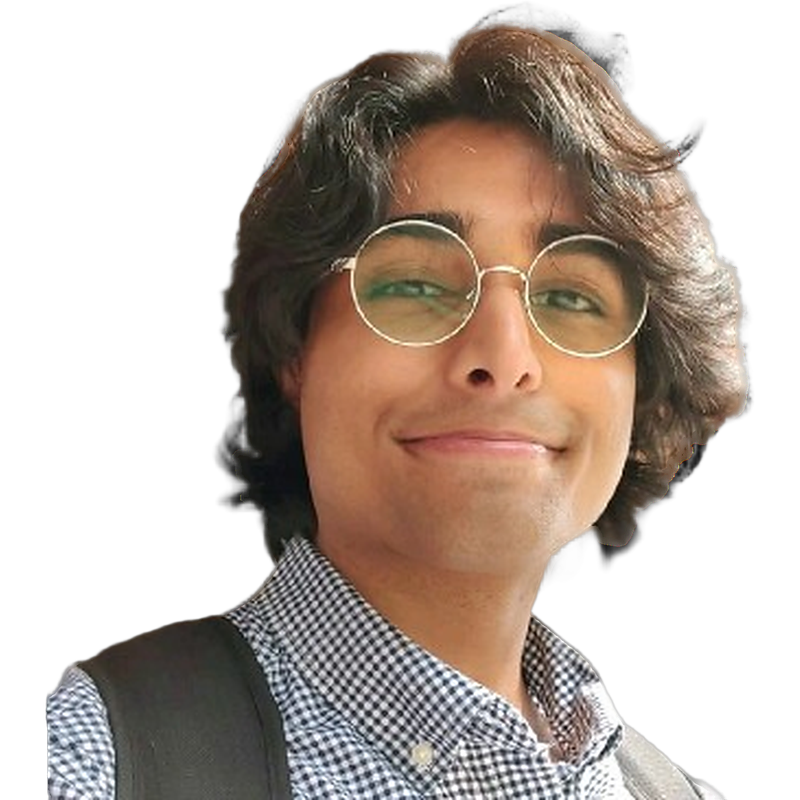
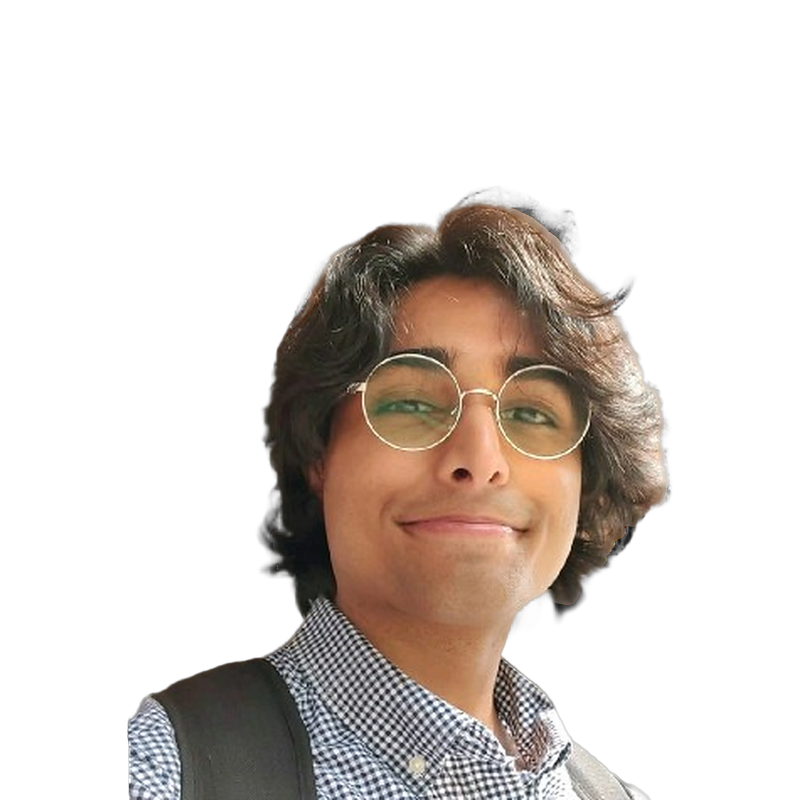
Enlarge the portrait fade, lift it, and drive motion from the pointer
- Replace the scroll-linked parallax with useHoverMotion: hovering eases the
  portrait up, scales it slightly, and leans it toward the cursor. Reuses the
  same interpolate-toward-target easing, so it still reads as having weight.
  Skipped under prefers-reduced-motion and on devices with no real pointer.
  Delete useParallax.ts, now unused.
- Raise the portrait clear of the section divider so the faded edges have room
  instead of being cut off by the section boundary.
- Enlarge the circular fade. The previous mask used 'circle closest-side',
  which sizes against the nearest edge and left the fully-visible disc at only
  ~184px inside a 400px element — hence a small circle floating in space. Now
  sized as an explicit ellipse in element-relative terms, opaque out to 72% and
  fading to zero exactly at the horizontal edges, so no rectangle shows.
- Add 30% breathing room to the portrait canvas in make-portrait.py. The source
  is cropped so tightly that the hair meets the image edge, leaving any circular
  mask no choice but to chew into it; the empty margin is what the fade
  dissolves into.

diff --git a/src/hooks/useHoverMotion.ts b/src/hooks/useHoverMotion.ts
@@ -1,0 +1,123 @@
+import { useEffect, useRef } from 'react'
+
+type HoverMotionOptions = {
+  /** Extra scale at full engagement. `0.05` = 5% larger. */
+  scale?: number
+  /** How far the element rises at full engagement, in px. */
+  lift?: number
+  /** Maximum pointer-follow offset, in px. */
+  follow?: number
+  /** Lag factor between 0 and 1. Lower is smoother and floatier. */
+  smoothing?: number
+}
+
+const clamp = (v: number, min: number, max: number) => Math.min(Math.max(v, min), max)
+
+/**
+ * Pointer-driven motion for the hero portrait, in place of scroll parallax.
+ *
+ * On hover the element eases up and scales slightly, and it leans a few pixels
+ * toward the cursor so it feels like it is responding rather than just glowing.
+ * Like the scroll version, motion is interpolated toward a target instead of
+ * snapping to it — the lag is what reads as weight. The loop parks itself once
+ * everything settles, so an idle page costs nothing.
+ *
+ * Skipped entirely under `prefers-reduced-motion`, and on devices without a
+ * real pointer (`hover: none`), where there is no hover to respond to.
+ */
+export function useHoverMotion<T extends HTMLElement>({
+  scale = 0.05,
+  lift = 16,
+  follow = 10,
+  smoothing = 0.1,
+}: HoverMotionOptions = {}) {
+  const ref = useRef<T>(null)
+
+  useEffect(() => {
+    const element = ref.current
+    if (!element) return
+
+    if (window.matchMedia('(prefers-reduced-motion: reduce)').matches) return
+    if (!window.matchMedia('(hover: hover)').matches) return
+
+    let engaged = 0
+    let targetEngaged = 0
+    let pointerX = 0 // -1 (left) .. 1 (right)
+    let pointerY = 0 // -1 (top) .. 1 (bottom)
+    let easedX = 0
+    let easedY = 0
+    let frame = 0
+
+    const draw = () => {
+      const scaleValue = 1 + scale * engaged
+      const x = easedX * follow
+      const y = -lift * engaged + easedY * follow
+      element.style.transform = `translate3d(${x.toFixed(2)}px, ${y.toFixed(2)}px, 0) scale(${scaleValue.toFixed(4)})`
+    }
+
+    const tick = () => {
+      engaged += (targetEngaged - engaged) * smoothing
+      easedX += (pointerX - easedX) * smoothing
+      easedY += (pointerY - easedY) * smoothing
+
+      const settled =
+        Math.abs(targetEngaged - engaged) < 0.0005 &&
+        Math.abs(pointerX - easedX) < 0.001 &&
+        Math.abs(pointerY - easedY) < 0.001
+
+      if (settled) {
+        engaged = targetEngaged
+        easedX = pointerX
+        easedY = pointerY
+        draw()
+        frame = 0
+        return
+      }
+
+      draw()
+      frame = requestAnimationFrame(tick)
+    }
+
+    const kick = () => {
+      if (!frame) frame = requestAnimationFrame(tick)
+    }
+
+    const onEnter = () => {
+      targetEngaged = 1
+      kick()
+    }
+
+    const onLeave = () => {
+      targetEngaged = 0
+      pointerX = 0
+      pointerY = 0
+      kick()
+    }
+
+    const onMove = (event: PointerEvent) => {
+      if (!targetEngaged) return
+      const rect = element.getBoundingClientRect()
+      if (!rect.width || !rect.height) return
+      pointerX = clamp(((event.clientX - rect.left) / rect.width) * 2 - 1, -1, 1)
+      pointerY = clamp(((event.clientY - rect.top) / rect.height) * 2 - 1, -1, 1)
+      kick()
+    }
+
+    element.style.willChange = 'transform'
+    draw()
+    element.addEventListener('pointerenter', onEnter)
+    element.addEventListener('pointerleave', onLeave)
+    element.addEventListener('pointermove', onMove)
+
+    return () => {
+      element.removeEventListener('pointerenter', onEnter)
+      element.removeEventListener('pointerleave', onLeave)
+      element.removeEventListener('pointermove', onMove)
+      if (frame) cancelAnimationFrame(frame)
+      element.style.removeProperty('will-change')
+      element.style.removeProperty('transform')
+    }
+  }, [scale, lift, follow, smoothing])
+
+  return ref
+}

diff --git a/src/components/Portrait.tsx b/src/components/Portrait.tsx
@@ -1,6 +1,6 @@
 import { useState } from 'react'
 import { profile } from '../data/resume'
-import { useParallax } from '../hooks/useParallax'
+import { useHoverMotion } from '../hooks/useHoverMotion'
 
 /** "Ryan Vyas" -> "RV" */
 function initialsOf(name: string) {
@@ -13,26 +13,30 @@ function initialsOf(name: string) {
 }
 
 /**
- * The hero portrait: a cut-out (transparent background) image that drifts and
- * scales as you scroll, sitting on a soft glow so it separates from the page.
+ * The hero portrait: a cut-out image whose edges dissolve into the page via a
+ * feathered circular mask. On hover it eases up, scales slightly, and leans
+ * toward the cursor.
  *
- * Sized to stay near the source's native resolution — the supplied photo is
- * only ~370px square, so pushing it much larger than this goes soft. Replace
- * `public/portrait.png` (and `portrait.webp`) with a higher-resolution cut-out
- * to scale the treatment up.
+ * The nesting order matters. The transform is outermost, then the shadow
+ * filter, then the mask on the image itself:
  *
- * Falls back to a monogram if the image is missing, so the layout never shows
- * a broken image.
+ * - Mask inside the filter means the shadow follows the *faded* silhouette
+ *   instead of being clipped off by the mask.
+ * - Transform outermost means the filtered, masked subtree is rasterised once
+ *   into a layer and the motion just moves that layer, keeping it cheap.
+ *
+ * Falls back to a monogram if the image is missing, so the layout never shows a
+ * broken image.
  */
 export function Portrait() {
   const [hasFailed, setHasFailed] = useState(false)
-  const parallaxRef = useParallax<HTMLDivElement>()
+  const motionRef = useHoverMotion<HTMLDivElement>()
   const showImage = Boolean(profile.photoUrl) && !hasFailed
 
   if (!showImage) {
     return (
       <div className="flex justify-center pb-10">
-        <div className="flex h-40 w-40 items-center justify-center rounded-lg border border-neutral-200 bg-neutral-100 sm:h-48 sm:w-48 dark:border-white/10 dark:bg-white/[0.03]">
+        <div className="flex h-40 w-40 items-center justify-center rounded-full border border-neutral-200 bg-neutral-100 sm:h-48 sm:w-48 dark:border-white/10 dark:bg-white/[0.03]">
           <span
             role="img"
             aria-label={`${profile.name} monogram`}
@@ -47,22 +51,18 @@ export function Portrait() {
 
   return (
     <div className="relative flex justify-center">
-      {/* Soft light behind the subject so the cut-out reads against the page. */}
-      <div
-        aria-hidden="true"
-        className="pointer-events-none absolute bottom-0 left-1/2 h-[75%] w-[150%] max-w-[660px] -translate-x-1/2 rounded-[50%] bg-[radial-gradient(ellipse_at_bottom,rgba(0,0,0,0.07),transparent_70%)] dark:bg-[radial-gradient(ellipse_at_bottom,rgba(255,255,255,0.11),transparent_70%)]"
-      />
-
-      <div ref={parallaxRef} className="relative">
-        <picture>
-          <source srcSet="/portrait.webp" type="image/webp" />
-          <img
-            src={profile.photoUrl}
-            alt={`Portrait of ${profile.name}`}
-            onError={() => setHasFailed(true)}
-            className="portrait-shadow block w-[280px] max-w-full select-none sm:w-[340px] lg:w-[420px]"
-          />
-        </picture>
+      <div ref={motionRef} className="relative">
+        <div className="portrait-shadow">
+          <picture>
+            <source srcSet="/portrait.webp" type="image/webp" />
+            <img
+              src={profile.photoUrl}
+              alt={`Portrait of ${profile.name}`}
+              onError={() => setHasFailed(true)}
+              className="portrait-fade block w-[300px] max-w-full select-none sm:w-[370px] lg:w-[440px]"
+            />
+          </picture>
+        </div>
       </div>
     </div>
   )

diff --git a/src/index.css b/src/index.css
@@ -118,10 +118,13 @@
   }
 
   /*
-   * Lifts the cut-out portrait off the page. Two shadows: a wide soft one for
-   * depth, plus a tight one to define the contact edge. Because `drop-shadow`
-   * follows the alpha silhouette rather than the bounding box, it also visually
-   * absorbs any faint fringe left along the cut-out edges.
+   * Lifts the cut-out portrait off the page in light mode. Two shadows: a wide
+   * soft one for depth, plus a tight one to define the contact edge. Because
+   * `drop-shadow` follows the alpha silhouette rather than the bounding box, it
+   * hugs the actual shape.
+   *
+   * Suppressed in dark mode — against a near-black page a shadow reads as grime
+   * rather than depth.
    */
   .portrait-shadow {
     filter: drop-shadow(0 18px 30px rgb(0 0 0 / 0.14))
@@ -129,7 +132,31 @@
   }
 
   .dark .portrait-shadow {
-    filter: drop-shadow(0 20px 38px rgb(0 0 0 / 0.6))
-      drop-shadow(0 3px 8px rgb(0 0 0 / 0.45));
+    filter: none;
+  }
+
+  /*
+   * Dissolves the portrait into the page. A hard-edged cut-out reads as a
+   * rectangle sitting on a flat background, so the silhouette is feathered away
+   * with a radial mask instead.
+   *
+   * The radii are given as explicit percentages of the element (not
+   * `closest-side`, which shrinks the circle against the nearest edge) so the
+   * solid area stays generous: fully opaque out to 72% of the radius, fading to
+   * nothing at 100%, which lands exactly on the element's horizontal edges and
+   * leaves no visible rectangle. Centred slightly above middle so it sits on
+   * the face rather than the bounding box.
+   */
+  .portrait-fade {
+    -webkit-mask-image: radial-gradient(
+      ellipse 50% 50% at 50% 44%,
+      #000 72%,
+      transparent 100%
+    );
+    mask-image: radial-gradient(
+      ellipse 50% 50% at 50% 44%,
+      #000 72%,
+      transparent 100%
+    );
   }
 }

diff --git a/src/components/Hero.tsx b/src/components/Hero.tsx
@@ -8,7 +8,12 @@ export function Hero() {
     // `overflow-hidden` clips the portrait as it drifts down, so the subject
     // appears to sink behind the section edge rather than spilling over it.
     <section id="top" className="relative overflow-hidden">
-      <div className="mx-auto flex min-h-[calc(100svh-4rem)] max-w-5xl flex-col px-6 pt-32 sm:pt-40 lg:min-h-[min(calc(100svh-4rem),860px)] lg:flex-row lg:items-end lg:justify-between lg:gap-12 lg:pt-32">
+      <div className="mx-auto flex min-h-[calc(100svh-4rem)] max-w-5xl flex-col px-6 pt-32 sm:pt-40 lg:min-h-[min(calc(100svh-4rem),860px)] lg:flex-row-reverse lg:items-end lg:justify-between lg:gap-12 lg:pt-32">
+        {/*
+         * `flex-row-reverse` puts the portrait on the left and the copy on the
+         * right while keeping the heading first in the DOM, so it is still the
+         * first thing a screen reader reaches.
+         */}
         {/*
          * Two columns on desktop rather than a vertical stack: stacking put the
          * portrait below the fold on shorter screens and left a large void
@@ -69,8 +74,12 @@ export function Hero() {
           </div>
         </div>
 
-        {/* Anchored to the bottom edge so the shoulder cut meets the section divider. */}
-        <div className="mt-14 flex justify-center lg:mt-0 lg:shrink-0">
+        {/*
+         * Anchored near the bottom but lifted clear of the section divider, so
+         * the faded edges have room to breathe instead of being cut off by the
+         * boundary.
+         */}
+        <div className="mt-14 flex justify-center lg:mt-0 lg:mb-24 lg:shrink-0">
           <Portrait />
         </div>
       </div>

diff --git a/scripts/make-portrait.py b/scripts/make-portrait.py
@@ -42,6 +42,11 @@ MODEL = "birefnet-portrait"
 # opaque. Values between are kept, because hair genuinely needs soft coverage.
 ALPHA_FLOOR = 0.06
 ALPHA_CEIL = 0.98
+# Breathing room around the subject, as a fraction of its longest side. The
+# source photo is cropped so tightly that the hair meets the image edge, which
+# leaves a circular mask no choice but to cut into it. Padding gives the fade
+# somewhere to happen that isn't the subject's face.
+PAD = 0.30
 
 
 def upscale(source: Image.Image) -> Image.Image:
@@ -135,9 +140,11 @@ def main() -> int:
     cut = cut.crop(bbox)
     print(f"  cropped to subject {cut.size[0]}x{cut.size[1]}")
 
-    # Square canvas, subject anchored to the bottom edge so the shoulder cut
-    # lands exactly on the section divider in the hero layout.
-    side = max(cut.size)
+    # Square canvas with breathing room around the subject, anchored to the
+    # bottom edge so the shoulder cut lands on the section divider. The empty
+    # margin is what the circular fade dissolves into, so the mask never chews
+    # into the hair or the face.
+    side = int(max(cut.size) * (1 + PAD))
     canvas = Image.new("RGBA", (side, side), (0, 0, 0, 0))
     canvas.paste(cut, ((side - cut.width) // 2, side - cut.height), cut)
 

diff --git a/README.md b/README.md
@@ -78,13 +78,18 @@ The look is deliberately near-monochrome, and a few decisions carry it:
 To re-theme the highlight colour, edit the `--color-accent-*` ramp in
 [`src/index.css`](src/index.css); every use updates at once.
 
-The hero portrait uses a scroll-linked parallax — it scales up slightly and
-drifts downward so it lags behind the page, which is what reads as depth. See
-[`src/hooks/useParallax.ts`](src/hooks/useParallax.ts); its defaults were
-measured off the reference site. The motion is interpolated toward the scroll
-position rather than snapped to it, and the animation loop parks itself once the
-element settles so an idle page costs nothing. It is skipped entirely under
-`prefers-reduced-motion`.
+The hero portrait responds to the pointer: on hover it eases upward, scales
+slightly, and leans a few pixels toward the cursor. See
+[`src/hooks/useHoverMotion.ts`](src/hooks/useHoverMotion.ts). The motion is
+interpolated toward its target rather than snapped, and the animation loop parks
+itself once everything settles so an idle page costs nothing. It is skipped
+entirely under `prefers-reduced-motion` and on devices without a real pointer.
+
+Its edges are dissolved into the page by a radial mask rather than cut off as a
+rectangle — see the `.portrait-fade` utility in [`src/index.css`](src/index.css).
+The portrait assets are cut-outs with generous empty margin, which is what the
+fade dissolves into; regenerating without that padding will make the mask clip
+the subject.
 
 Dark mode is the default. Light mode is used only after an explicit toggle, and
 that choice is remembered on future visits.
@@ -98,7 +103,7 @@ src/
   hooks/
     useTheme.ts         Light/dark mode (remembers the choice)
     useActiveSection.ts Highlights the nav link for the section in view
-    useParallax.ts      Scroll-linked drift/scale used by the hero portrait
+    useHoverMotion.ts   Pointer-driven lift/scale used by the hero portrait
   App.tsx               Composes the navbar, sections, and footer
   index.css             Tailwind import, design tokens, and base styles
 ```
